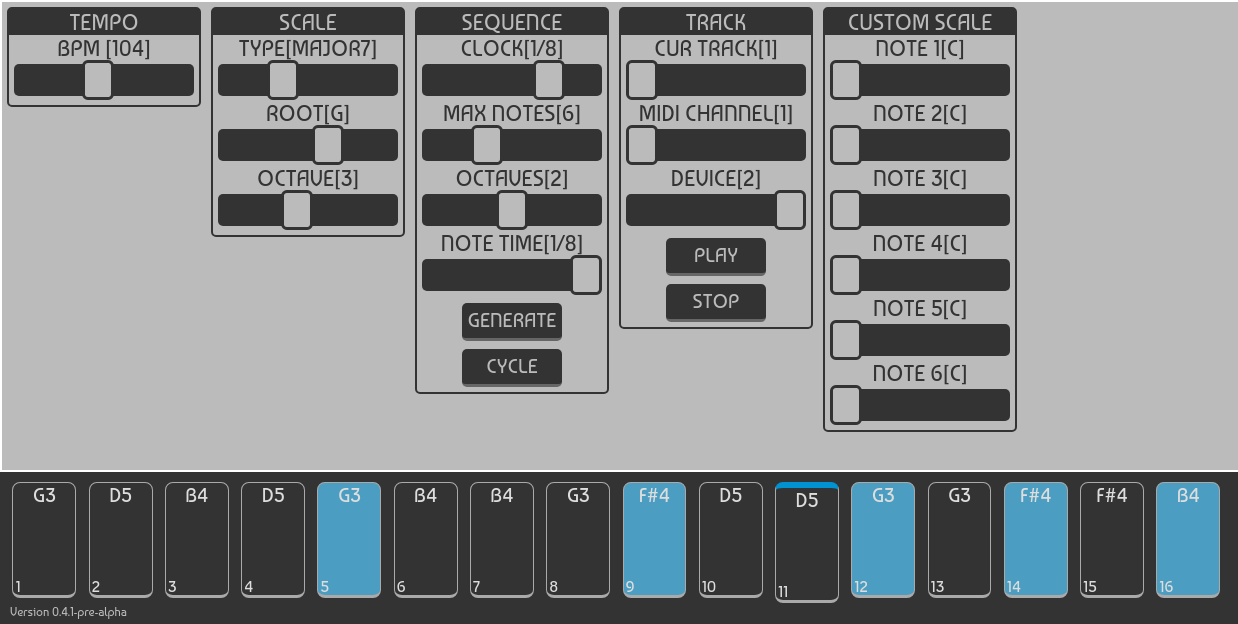
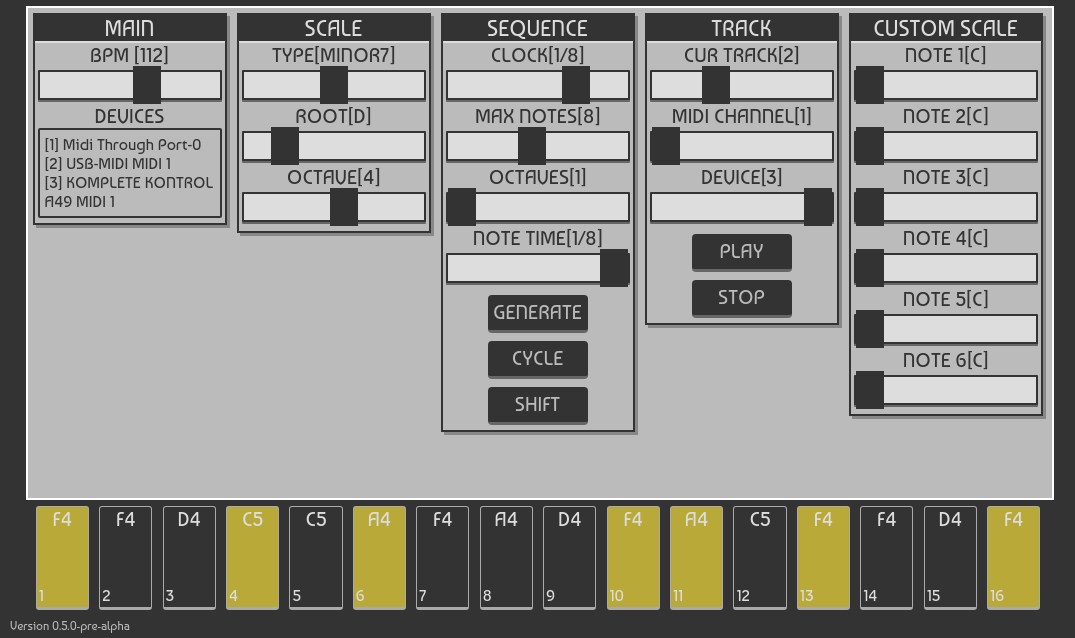
ui work

diff --git a/ui.css b/ui.css
@@ -21,10 +21,11 @@ html, body
     text-align: left;
     padding: 5px;
     width: 170px;
-    border-radius: 5px;
-    background-color: #333333;
-    color: #bbbbbb;
+    border-radius: 2px;
+    
+    color: #333333;
     font-size: 16px;
+    border: 2px solid #333333;
 }
 #options
 {
@@ -56,7 +57,7 @@ html, body
     margin-left: 1%;
   
     border: 1px solid #aaaaaa;
-    border-radius: 8px;
+    border-radius: 3px;
     border-bottom: 3px solid #aaaaaa;
     color: #dddddd;
 }
@@ -103,7 +104,8 @@ html, body
 .section
 {
     border: 2px solid #333333;
-    border-radius: 5px;
+    box-shadow: 3px 3px 0px 0px #888888;
+    border-radius: 0px;
     width: 190px;
     height: fit-content;
     margin: 5px;
@@ -114,15 +116,17 @@ html, body
 {
     font-size: 22px;
     background-color: #333333;
-    color: #bbbbbb;
+    color: #dddddd;
     text-align: center;
+    border-bottom: 2px solid #dddddd;
 }
 .slider .title
 {
-    border-radius: 5px;
+    font-size: 20px;
     text-align: center;
     color: #333333;
     background-color: #bbbbbb;
+    border: none;
 }
 .slider
 {
@@ -144,9 +148,11 @@ html, body
     -webkit-appearance: none;  /* Override default CSS styles */
     appearance: none;
     outline: none;
-    background-color: #333333;
-    border-radius: 5px;
-    height: 32px;
+    background-color: #dddddd;
+    border: 2px solid #333333;
+    border-radius: 1px;
+    box-shadow: 0px 2px 0px 0px #666666;
+    height: 26px;
     width: 180px;
     padding: 0px;
 }
@@ -154,11 +160,11 @@ html, body
 .sliders input::-webkit-slider-thumb {
     -webkit-appearance: none; 
     appearance: none;
-    width: 32px;
-    height: 40px; 
-    background: #bbbbbb; 
-    border-radius: 6px;
-    border: 3px solid #333333;
+    width: 28px;
+    height: 38px; 
+    background: #333333; 
+    border-radius: 0px;
+    border: 0px solid #333333;
     cursor: pointer;
   }
 
@@ -166,7 +172,7 @@ html, body
   {
       background-color: #333333;
       color: #bbbbbb;
-      border-radius: 5px;
+      border-radius: 4px;
       width: 100px;
       font-size: 20px;
       height: 35px;

diff --git a/index.html b/index.html
@@ -138,5 +138,5 @@
         </div>
         
     </div>
-    <div id="version">Version 0.4.3-pre-alpha</div>
+    <div id="version">Version 0.5.0-pre-alpha</div>
 </body>

diff --git a/README.md b/README.md
@@ -1,5 +1,5 @@
 <h1 align="center">SEQU</h1>
-<h4 align="center">Current Version: <a href="https://ryan-pickert.github.io/sequ/">[0.4.3-pre-alpha]</a></h4>
+<h4 align="center">Current Version: <a href="https://ryan-pickert.github.io/sequ/">[0.5.0-pre-alpha]</a></h4>
 
 Sequ is a multi-track step sequencer with a focus on randomization.
 
@@ -33,5 +33,6 @@ Notes:
 - You can click on a step to activate/deactivate it.
 - Switch between different tracks by using the 'current track' slider.
 - Clicking the 'cycle' button will set the sequence to activate random steps every cycle.
+- Clicking the 'shift' button will set the sequence to shift it's notes to the left every cycle.
 
 This project is in very early development so there are some bugs and missing features!
